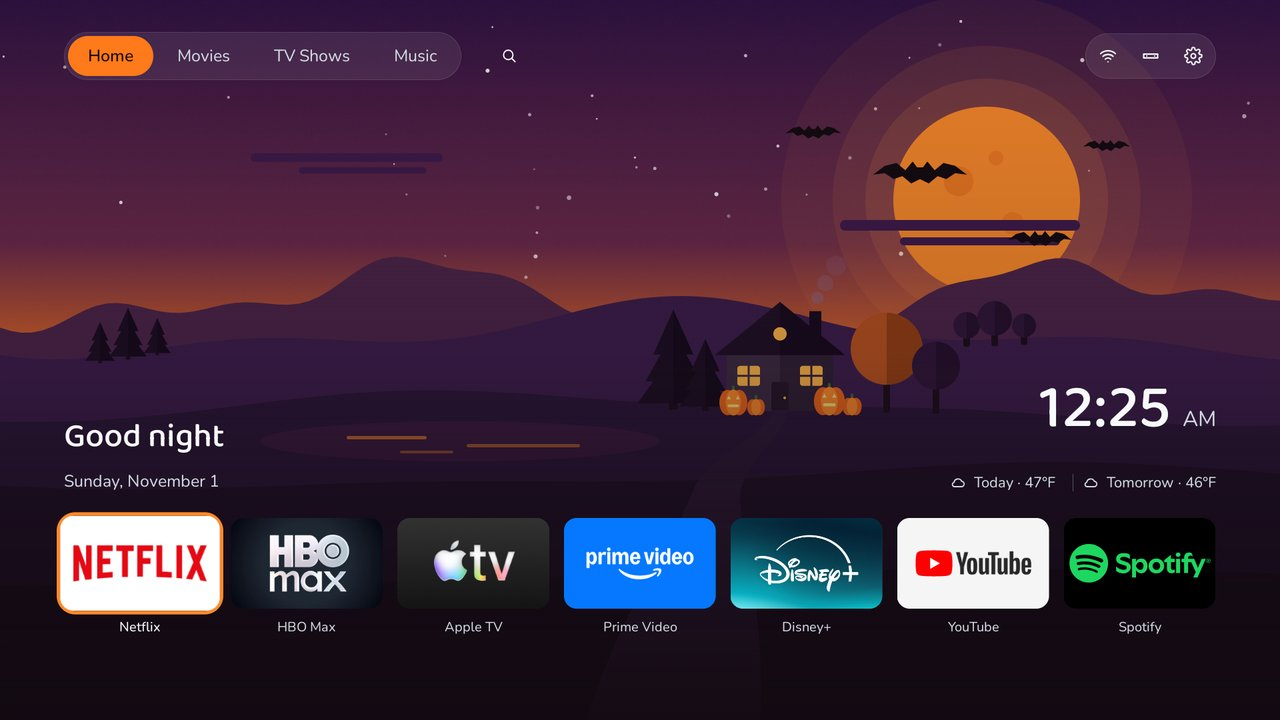
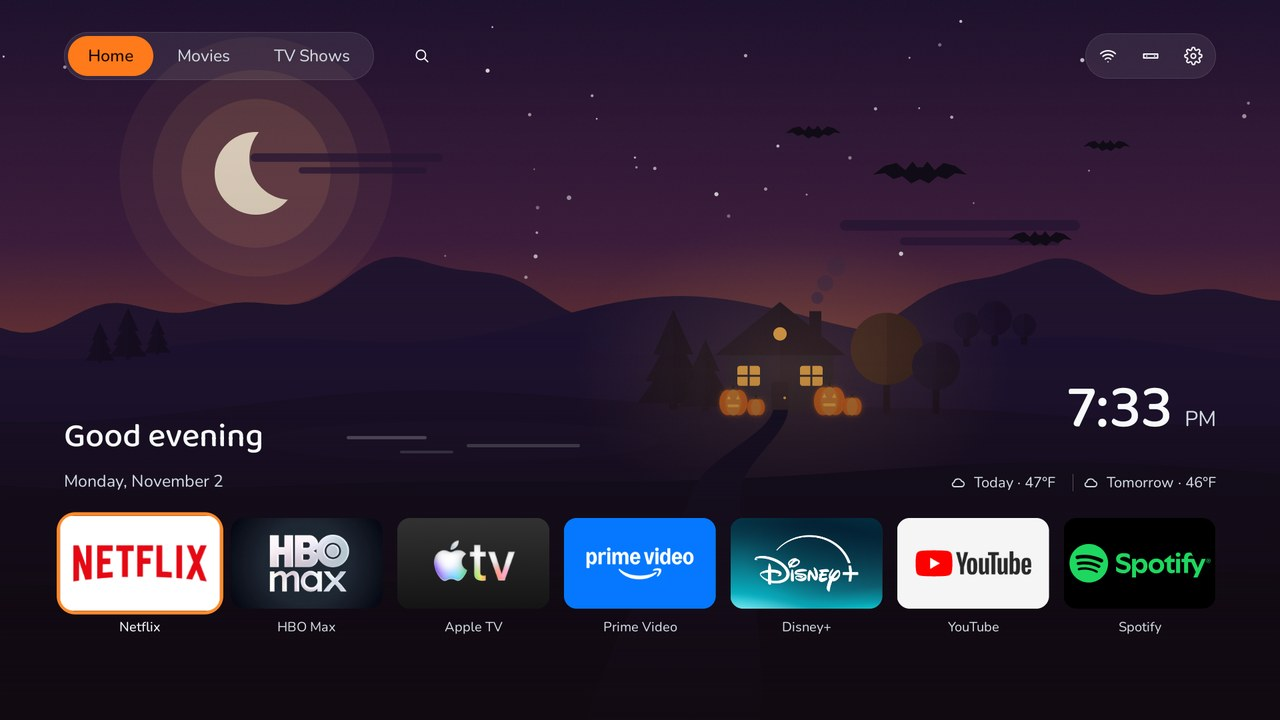
README: real-TV screenshots and a themes showcase
The README's four prototype screenshots are replaced by shots from the TCL (Android 9): Home, Search, a title preview and its Cast & crew tab; a new Themes section shows six of the eight built-in themes. The eight theme shots in docs/themes/ are retaken on the same TV (the old ones still showed the removed Music tab). Nothing identifying is shown; the preview's rent price is blurred (its currency names the region).

diff --git a/README.md b/README.md
@@ -8,12 +8,25 @@ weather. No ads and no analytics, and Home works with the network off.
 
 | | |
 |---|---|
-| ![Home: greeting, clock, weather and your apps](docs/rework/proto-home.jpg) | ![Movies: the household's lists, sort, filters and Pick for me](docs/rework/proto-movies.jpg) |
-| *Home: greeting, clock, weather and your apps* | *Movies: your lists, Sort, Filters and Pick for me* |
-| ![Title preview: Watch, Seen, Favorite and Trailer, with tabs](docs/rework/proto-preview.jpg) | ![Search: on-screen keyboard, recent searches and suggestions](docs/rework/proto-search.jpg) |
-| *Title preview: Watch, Seen, Favorite, Trailer and tabs* | *Search: typo-tolerant, results as you type* |
+| ![Home: greeting, clock, weather and your apps](docs/themes/midnight.jpg) | ![Search: on-screen keyboard, suggestions and results as you type](docs/screens/search.jpg) |
+| *Home: greeting, clock, weather and your apps* | *Search: typo-tolerant, results as you type* |
+| ![Title preview: Watch on your service, My list, Seen, Favorite and Trailer, with tabs](docs/screens/preview.jpg) | ![Title preview, Cast & crew tab](docs/screens/cast.jpg) |
+| *Title preview: Watch on your service, My list, Seen, Favorite, Trailer* | *Its tabs: where to watch, cast and crew, more like this* |
 
-*Screenshots of the web demo.*
+*Screenshots from a TCL TV (Android 9).*
+
+## Themes
+
+Eight built-in themes, chosen on the TV in Launcher settings › Theme. The Seasonal ones follow the date through ten
+periods and their pictures follow the sun; these show the Halloween period at night. [All eight, and how they
+work](themes/README.md).
+
+| | | |
+|---|---|---|
+| ![Midnight theme](docs/themes/midnight.jpg) | ![Daylight theme](docs/themes/daylight.jpg) | ![Cinema theme](docs/themes/cinema.jpg) |
+| *Midnight, the default* | *Daylight* | *Cinema* |
+| ![Landscapes theme](docs/themes/landscapes.jpg) | ![Seasonal Vector art theme](docs/themes/seasonal-vector.jpg) | ![Seasonal 8-bit theme](docs/themes/seasonal-8bit.jpg) |
+| *Landscapes* | *Vector art (Seasonal)* | *8-bit (Seasonal)* |
 
 ## Install
 
@@ -40,7 +53,7 @@ LG webOS are different systems: [supported TVs](docs/supported-tvs.md).
 | [Restoring and updates](docs/restore.md) | One line puts the TV back; what to do after a firmware update or when something goes wrong |
 | [Questions people ask](docs/faq.md) | Is it safe, firmware updates, closing ADB, blocking ads, going online |
 | [Troubleshooting](docs/TROUBLESHOOTING.md) | Everything that bit us, by symptom |
-| [Phone notes](docs/phone-notes.md), [Themes](themes/README.md), [Another home](docs/REMOTE.md), [The microphone](docs/microphone.md) | Send a watch-list note from a phone, the nine themes, helping someone remotely, what can be said about listening |
+| [Phone notes](docs/phone-notes.md), [Themes](themes/README.md), [Another home](docs/REMOTE.md), [The microphone](docs/microphone.md) | Send a watch-list note from a phone, the eight themes, helping someone remotely, what can be said about listening |
 
 ## Build and contribute
 

diff --git a/themes/README.md b/themes/README.md
@@ -22,7 +22,8 @@ the sun: dawn, day, sunset and night, from sunrise and sunset at the Weather pla
 | **Vector art** (Seasonal) | A flat drawing of the season, rounder corners, Baloo 2 and Nunito | <img src="../docs/themes/seasonal-vector.jpg" width="320" alt="Seasonal Vector art theme"> |
 | **8-bit** (Seasonal) | A pixel-art scene of the season, square corners and hard offset shadows, Press Start 2P and Pixelify Sans | <img src="../docs/themes/seasonal-8bit.jpg" width="320" alt="Seasonal 8-bit theme"> |
 
-The screenshots are Home on a TCL TV (Android 9) at the end of October, so the Seasonal ones show Halloween.
+The screenshots are Home on a TCL TV (Android 9) on the evening of 2 November, so the Seasonal ones show Halloween at
+night.
 
 - **Typeface:** each theme's fonts come from Google Fonts, downloaded once and kept on the TV (Roboto until they
   arrive); Launcher settings › Theme › Typeface can put every theme in the TV's own Roboto instead.
